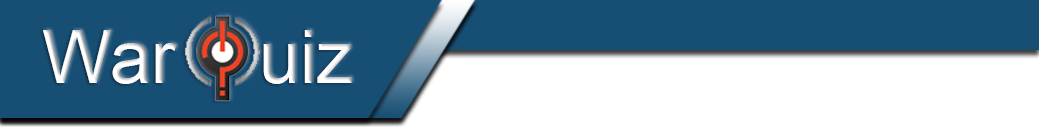
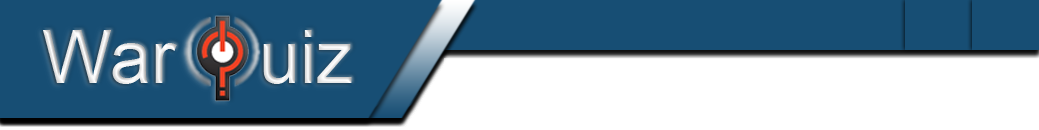
Ajout de la partie correction + redirection auto à la fin du quiz.

Changed region(s): [[0.0308, 0.1231, 0.3388, 0.7692], [0.4004, 0.3692, 1.0, 0.7692], [0.0, 0.8, 0.4004, 0.9846]]

diff --git a/Projet_QUIZ/src/Correction.java b/Projet_QUIZ/src/Correction.java
@@ -1,0 +1,122 @@
+import java.awt.Button;
+import java.awt.Color;
+import java.awt.Font;
+import java.awt.Graphics;
+import java.awt.event.ActionEvent;
+import java.awt.event.ActionListener;
+import java.awt.event.MouseEvent;
+import java.awt.event.MouseListener;
+
+import javax.swing.JButton;
+import javax.swing.JLabel;
+import javax.swing.JPanel;
+
+
+public class Correction extends JPanel implements MouseListener{
+	private Quiz monQuiz;
+	private Header header1;
+	private Header_menu header2;
+	private JLabel lb_titreCorrection;
+	private Bouton_selection_question_correction boutonQuestion;
+	private JLabel question;
+	private JLabel reponse;
+	private int cpt=0;
+	private JButton terminer;
+	private Fenetre fenetre;
+	private JLabel titreQuiz;
+	
+	public Correction (Quiz quiz, Fenetre fen){
+		setLayout(null);
+		monQuiz = quiz;
+		menuQuetions(monQuiz.getNb_questions());
+		fenetre = fen;
+		
+		//****Inclusion du Header en 2 parties ****
+        header1 = new Header(fen);
+        header1.setBounds(0, 0, 444, 130);
+        header1.addMouseListener(header1);
+        header1.addMouseMotionListener(header1);
+        this.add(header1); 
+     
+
+        header2 = new Header_menu(fen);
+        header2.setBounds(444, 0, 580, 58);
+        header2.addMouseListener(header2);
+        header2.addMouseMotionListener(header2);
+        this.add(header2); 
+        //****************************************
+        
+        titreQuiz = new JLabel("Correction du quiz : "+monQuiz.getNom());
+        titreQuiz.setForeground(Color.WHITE);
+        titreQuiz.setFont(new Font("Arial", Font.PLAIN, 30));
+        titreQuiz.setBounds(30, 120, 400, 50);
+        add(titreQuiz);
+        
+		lb_titreCorrection = new JLabel("Correction");
+		lb_titreCorrection.setForeground(Color.WHITE);
+		lb_titreCorrection.setFont(new Font("Arial", Font.PLAIN, 42));
+		lb_titreCorrection.setBounds(575, 105, 400, 50);
+		add(lb_titreCorrection);
+		
+		terminer = new JButton("Terminer");
+		terminer.setForeground(Color.WHITE);
+		terminer.setFont(new Font("Arial", Font.PLAIN, 20));
+		terminer.setBackground(new Color(7, 92, 120));
+		terminer.setBorder(null);
+		
+		terminer.setBounds(850, 500, 122, 36);
+		terminer.addActionListener(new ActionListener() {
+			public void actionPerformed(ActionEvent e) {
+				fenetre.goToAccueil("texte");
+			}
+		});
+		add(terminer);
+	}
+	
+
+	public void menuQuetions(int num){		
+		for(int i=0;i<num;i++){
+			boutonQuestion = new Bouton_selection_question_correction(i, monQuiz, this);
+			boutonQuestion.addMouseListener(boutonQuestion);
+			boutonQuestion.setBounds(480+27*i, 60, 20, 20);
+			add(boutonQuestion);
+		}
+	}
+	
+	public void setQuestion(String txt){
+		question.setText(txt);
+		question.repaint();
+	}
+	
+	public void setReponse(int nbRep, String txt){
+		
+			reponse = new JLabel(txt);
+			add(reponse);
+			reponse.setBounds(20, 300+20*cpt, 1000, 36);
+			reponse.setFont(new Font("Arial", Font.PLAIN, 15));
+			reponse.setForeground(Color.WHITE);
+			reponse.repaint();
+			cpt++;
+		
+	}
+	
+	public void setCpt(int nb){
+		cpt = nb;
+	}
+	public void mouseClicked(MouseEvent arg0) {
+		setBackground(Color.GRAY);
+	}
+	public void mouseEntered(MouseEvent arg0) {}
+	public void mouseExited(MouseEvent arg0) {}
+	public void mousePressed(MouseEvent arg0) {}
+	public void mouseReleased(MouseEvent arg0) {}
+	
+	
+	public void paintComponent(Graphics g) {
+		super.paintComponent(g);
+		g.drawImage(Images.img_fond[0], 0, 0, this.getWidth(), this.getHeight(), null);
+		g.drawImage(Images.img_bouton[4], 960, 1, 46, 46, null);
+		
+	}
+
+}

diff --git a/Projet_QUIZ/src/Bouton_selection_question_correction.java b/Projet_QUIZ/src/Bouton_selection_question_correction.java
@@ -1,0 +1,44 @@
+import java.awt.Color;
+import java.awt.event.MouseEvent;
+import java.awt.event.MouseListener;
+
+import javax.swing.JButton;
+
+
+public class Bouton_selection_question_correction extends JButton implements MouseListener{
+	private Quiz monQuiz;
+	private int num_question;
+	private Correction maCorr;
+	private int aff_num_question;
+	
+	
+	public Bouton_selection_question_correction(int _num_question,Quiz _quiz, Correction corr){
+		monQuiz = _quiz;
+		num_question = _num_question;
+		maCorr= corr;
+		aff_num_question = num_question+1;
+		
+		setText(""+aff_num_question);
+		setBorder(null);
+		setBackground(Color.BLUE);
+		setForeground(Color.WHITE);
+	}
+	
+	public void AffQuestion(){
+		//maCorr.setQuestion(question);
+		//maCorr.repaint();
+	}
+	
+	public void AffReponses(int i){
+		//maCorr.setReponse(monQuiz.getQuest(num_question).getNb_reponses(), reponse[i].getTxtReponse());
+		//maCorr.repaint();
+	}
+
+	public void mouseClicked(MouseEvent e) {
+		setBackground(Color.GRAY);
+	}
+	public void mouseEntered(MouseEvent e) {}
+	public void mouseExited(MouseEvent e) {}
+	public void mousePressed(MouseEvent e) {}
+	public void mouseReleased(MouseEvent e) {}
+}

diff --git a/Projet_QUIZ/src/Connexion.java b/Projet_QUIZ/src/Connexion.java
@@ -92,6 +92,10 @@ public class Connexion extends JPanel implements MouseListener, MouseMotionListe
         add(panel);  	
 	}
 
+	public String getLoginGeneral(){
+		return login_general;
+	}
+	
 	 private Image load(final String url) {
 	       try {
 	           final Toolkit tk = Toolkit.getDefaultToolkit();
@@ -242,7 +246,12 @@ public class Connexion extends JPanel implements MouseListener, MouseMotionListe
 		
 		g.drawImage(Images.img_fond[0], 0, 0, this.getWidth(), this.getHeight(), null);
 		g.drawImage(Images.img_element[0], 0, 0, this.getWidth(), (int)(this.getHeight() / 6.1230), null);		// dessine le header	
-		g.drawImage(Images.img_bouton[4], 960, 1, 46, 46, null);
+		
+		g.drawImage(Images.img_bouton[6], 901, 0, 46, 46, null);
+		g.drawImage(Images.img_bouton[4], 967, 0, 46, 46, null);
+		//g.drawImage(Images.img_bouton[4], 523, 0, 46, 46, null);
+		
+		
 		/*
 		 * On boucle sur tous les boutons (de [0] a [3]).
 		 * Chaque bouton obtient une position X (hauteur) en fonction de son numero (i).

diff --git a/Projet_QUIZ/src/Chronometre.java b/Projet_QUIZ/src/Chronometre.java
@@ -14,12 +14,17 @@ public class Chronometre {
 	private long chrono;
 	private long chronoInitial;
 	private String tpsRestant;
+	private Quiz monQuiz;
+	private Fenetre fenetre;
+	private Jouer_partie partie_en_cours;
 	
-	
-	public Chronometre(long _hrs, long _min, long _sec){
+	public Chronometre(Fenetre fen, Jouer_partie partie, Quiz quiz, long _hrs, long _min, long _sec){
 		sec = _sec;
 		min = _min;
 		hrs = _hrs;
+		monQuiz = quiz;
+		fenetre = fen;
+		partie_en_cours = partie;
 		tpsRestant = hrs+" h "+min+" min "+sec+" sec";
 		chronoInitial = hrs*3600 + min*60 + sec; 
 		chrono = hrs*3600 + min*60 + sec;
@@ -82,7 +87,8 @@ public class Chronometre {
 					JOptionPane.WARNING_MESSAGE);
 			if(rep_deco == 0){
 				System.out.println("Redirige correction");
-			}
+				fenetre.goToCorrection(monQuiz);
+			}else {fenetre.goToAccueil("");}
 		}
 	}
 	

diff --git a/Projet_QUIZ/src/Header_menu.java b/Projet_QUIZ/src/Header_menu.java
@@ -1,3 +1,5 @@
+import java.awt.Color;
+import java.awt.Font;
 import java.awt.Graphics;
 import java.awt.event.MouseEvent;
 import java.awt.event.MouseListener;
@@ -15,12 +17,18 @@ public class Header_menu extends JPanel implements MouseListener, MouseMotionLis
 	private Fenetre fenetre;
 	static String selection1; 
 	public JLabel textMessage;
+	private Connexion conn;
 	
 	public Header_menu(Fenetre fen){
 		setLayout(null);
 		setOpaque(false);
-		JLabel textMessage = new JLabel("Bonjour" + " " + Connexion.login_general);
-		textMessage.setBounds(48, 11, 92, 14);
+		JLabel textMessage = new JLabel("Bienvenue" + " " );
+		
+		textMessage.setForeground(Color.WHITE);
+		textMessage.setFont(new Font("Arial", Font.PLAIN, 18));
+		
+		
+		textMessage.setBounds(55, 15, 200, 18);
 		add(textMessage);
 		fenetre = fen;
 		repaint();

diff --git a/Projet_QUIZ/src/Jouer.java b/Projet_QUIZ/src/Jouer.java
@@ -21,6 +21,7 @@ import javax.swing.JOptionPane;
 import javax.swing.JPanel;
 import javax.swing.JScrollPane;
 import javax.swing.JTable;
+import javax.swing.JTextField;
 
 public class Jouer extends JPanel implements MouseListener, MouseMotionListener, ItemListener{
 
@@ -163,11 +164,13 @@ public class Jouer extends JPanel implements MouseListener, MouseMotionListener,
 		list_quizcree.setBackground(Color.WHITE);
 		add(list_quizcree);
 		
-
 		
+
 		// remplissage de la liste avec une requete du style "recuperer tout les quiz creer par cet admin"
 		for (short i=0; i<ListeQuiz.length; i++) {
-			list_quizcree.add(ListeQuiz[i].getNom());
+			
+		
+			list_quizcree.add(ListeQuiz[i].getNom()+" - [ "+ListeQuiz[i].getNb_questions()+" question(s) ] - Temps : " + ListeQuiz[i].getTempsQuiz());
 		}
 		
 

diff --git a/Projet_QUIZ/src/Fenetre.java b/Projet_QUIZ/src/Fenetre.java
@@ -19,7 +19,8 @@ public class Fenetre extends JFrame {
 	public Jouer jouer;
 	public Inscription inscription;
 	public Gestion_quiz gestion_quiz;
-
+	public Correction correction;
+	public Quiz partie;
 	/**
 	 * Constructeur
 	 */
@@ -191,6 +192,16 @@ public class Fenetre extends JFrame {
 		if(rep == 0){
 			this.dispose();
 		}
+	}
+	
+	public void goToCorrection(Quiz partie){
+		// TODO Auto-generated method stub
+		correction = new Correction(partie, this);
+		correction.addMouseListener(correction);
+		this.getContentPane().setVisible(false);
+		correction.addMouseListener(correction);
+		this.setContentPane(correction);
+		this.getContentPane().setVisible(true);
 	}
 	
 	/**

diff --git a/Projet_QUIZ/src/Bouton_selection_question.java b/Projet_QUIZ/src/Bouton_selection_question.java
@@ -13,7 +13,6 @@ public class Bouton_selection_question extends JButton implements MouseListener{
 	private int aff_num_question;
 	private String question;
 	private Reponse[] reponse;
-
 	
 	public Bouton_selection_question(int _num_question, Quiz _quiz, Jouer_partie _partie){
 		
@@ -35,8 +34,7 @@ public class Bouton_selection_question extends JButton implements MouseListener{
 		System.out.println("NOMBRE DE REPONSE : "+quiz.getQuest(num_question).getNb_reponses());
 		for(int l=0; l<quiz.getQuest(num_question).getNb_reponses();l++){
 			reponse[l] = quiz.getQuest(num_question).getReponse(l);
-		}
-		
+		}	
 	}
 
 	public void AffQuestion(){

diff --git a/Projet_QUIZ/src/Images.java b/Projet_QUIZ/src/Images.java
@@ -43,7 +43,7 @@ public class Images {
 		 * charge les images d'elements dans img_element[]
 		 */
 		try {
-			img_element[0] = ImageIO.read(new File("images/header5.png"));
+			img_element[0] = ImageIO.read(new File("images/header1.png"));
 			img_element[1] = ImageIO.read(new File("images/barre_verticale.png"));
 			//img_element[2] = ImageIO.read(new File("images/background_textbox.png"));
 			img_element[3] = ImageIO.read(new File("images/invalide.png"));
